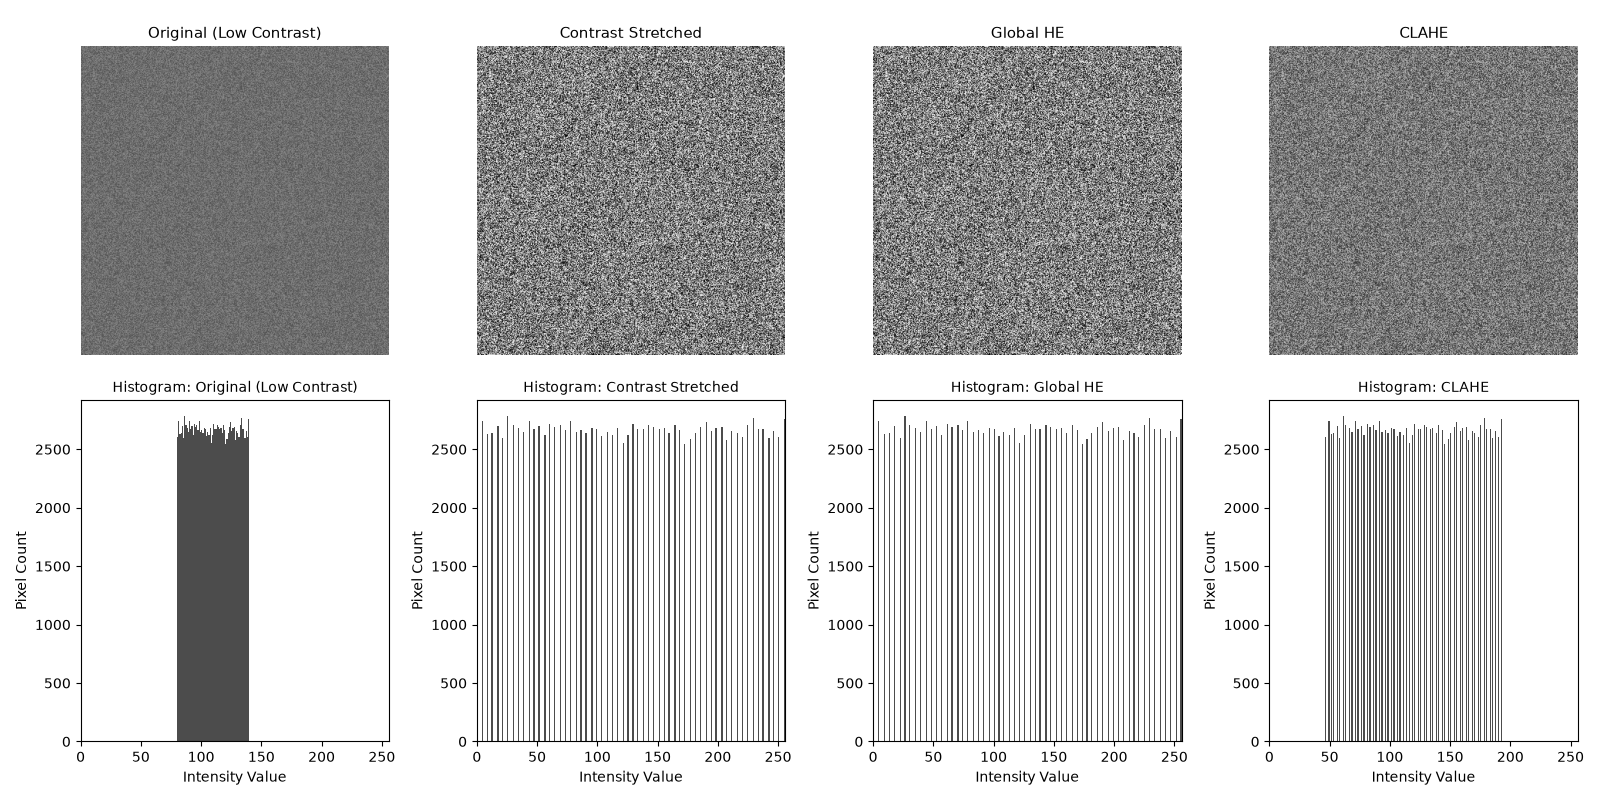
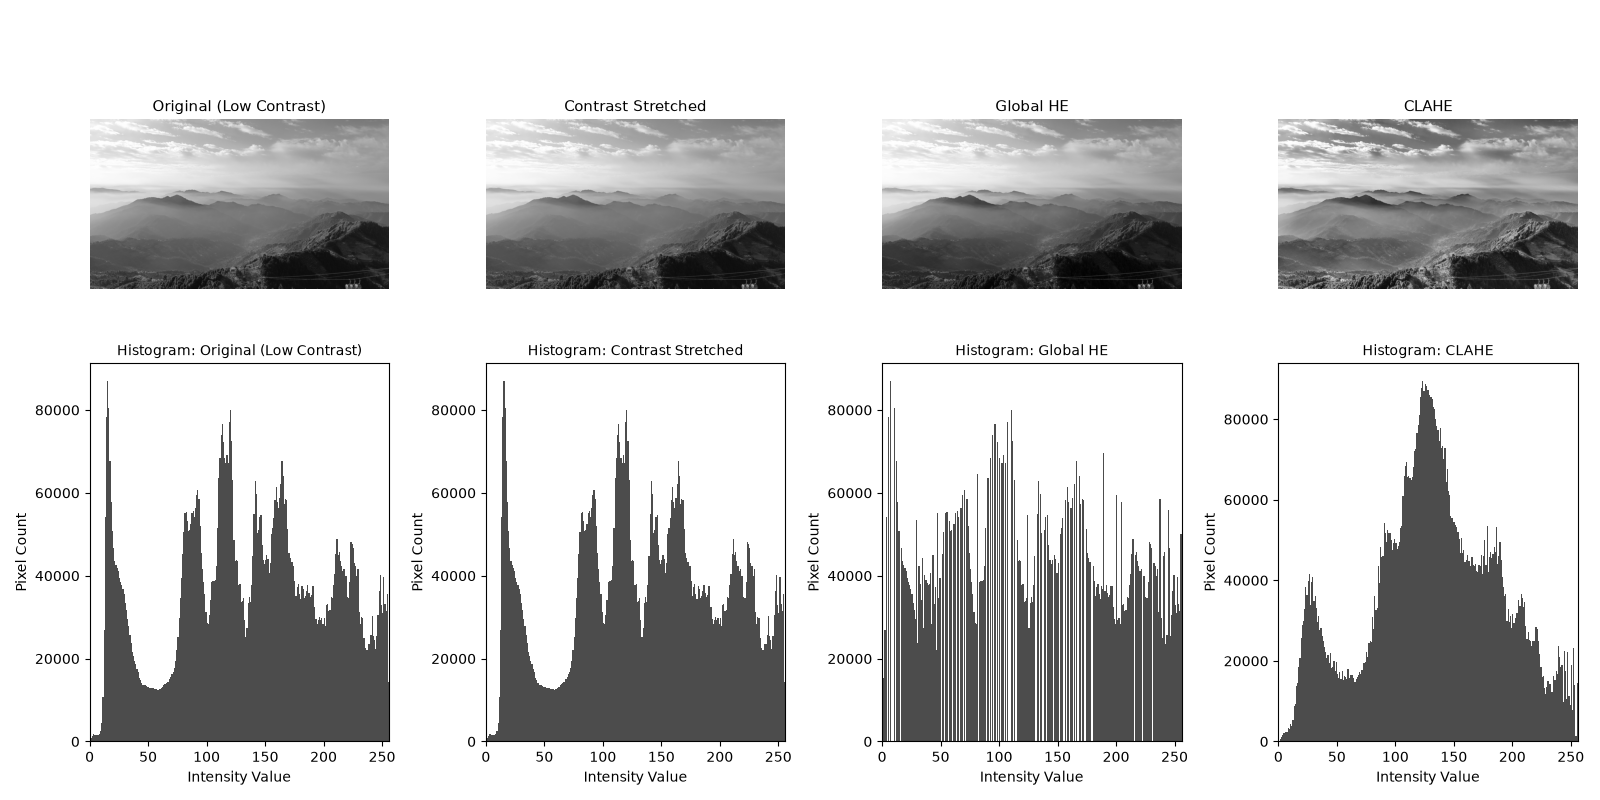
Complete Experiment 2 implementation and add results

diff --git a/experiment2/exp2.py b/experiment2/exp2.py
@@ -1,19 +1,22 @@
+import os
 import cv2
 import matplotlib.pyplot as plt
 import numpy as np
 
-# 1. Load image (Replace or use your local/workspace image)
-image_path = 'IMG_20260101_085451.jpg.jpeg'
+# Same folder (experiment2) se image uthayega
+CURRENT_DIR = os.path.dirname(os.path.abspath(__file__))
+image_path = os.path.join(CURRENT_DIR, 'IMG_20260101_085451.jpg.jpeg')
+
+# Read image in grayscale
 img = cv2.imread(image_path, cv2.IMREAD_GRAYSCALE)
 
 if img is None:
-    # Fallback dummy low-contrast image if path does not exist
-    img = np.random.randint(80, 140, (400, 400), dtype=np.uint8)
+    raise FileNotFoundError(f"Image nahi mili: {image_path}")
 
 # 2. Contrast Stretching (Min-Max Normalization to [0, 255])
-r_min, r_max = np.min(img), np.max(img)
+r_min, r_max = int(np.min(img)), int(np.max(img))
 if r_max > r_min:
-    img_stretched = ((img - r_min) / (r_max - r_min) * 255.0).astype(np.uint8)
+    img_stretched = ((img.astype(np.float32) - r_min) / (r_max - r_min) * 255.0).astype(np.uint8)
 else:
     img_stretched = img.copy()
 
@@ -30,13 +33,11 @@ titles = ['Original (Low Contrast)', 'Contrast Stretched', 'Global HE', 'CLAHE']
 
 plt.figure(figsize=(16, 8))
 for i in range(4):
-    # Display Processed Images
     plt.subplot(2, 4, i + 1)
     plt.imshow(images[i], cmap='gray', vmin=0, vmax=255)
     plt.title(titles[i], fontsize=11)
     plt.axis('off')
 
-    # Display Corresponding Histograms
     plt.subplot(2, 4, i + 5)
     plt.hist(images[i].ravel(), bins=256, range=[0, 256], color='black', alpha=0.7)
     plt.title(f'Histogram: {titles[i]}', fontsize=10)
@@ -45,5 +46,8 @@ for i in range(4):
     plt.ylabel('Pixel Count')
 
 plt.tight_layout()
-plt.savefig('experiment2/contrast_enhancement_result.png')
+
+# Save result in experiment2 folder
+output_path = os.path.join(CURRENT_DIR, 'contrast_enhancement_result.png')
+plt.savefig(output_path)
 plt.show()
